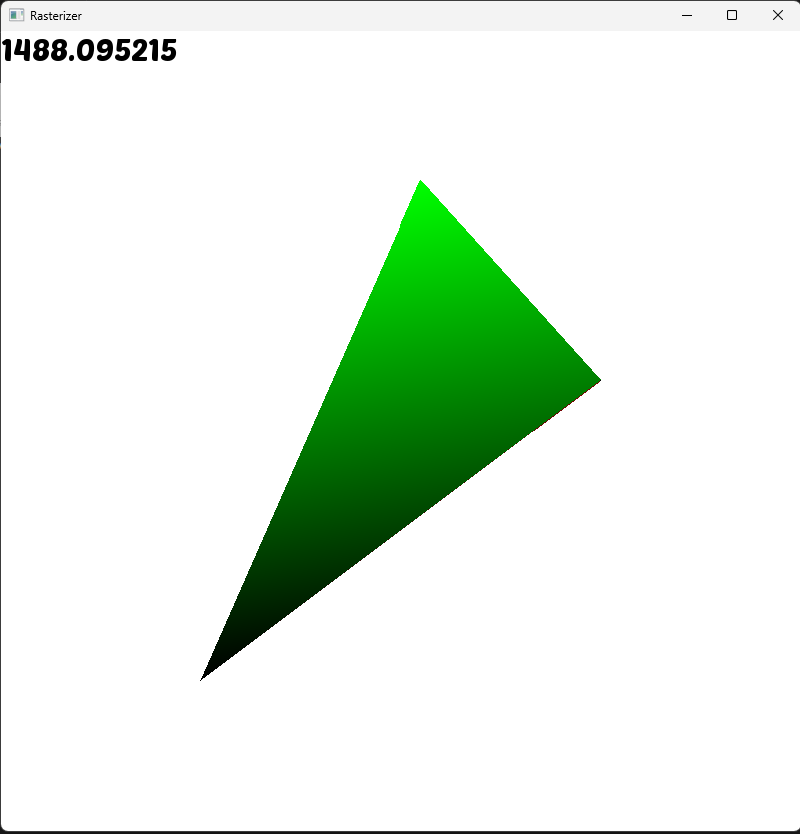
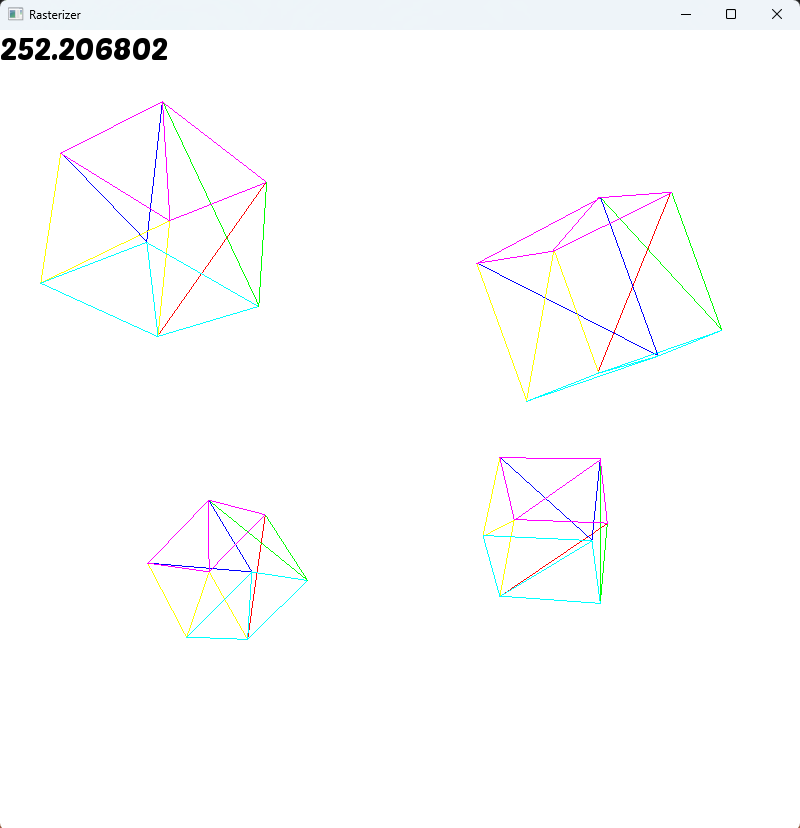
Changed the showcase image for rasterizer

diff --git a/src/rasterizer/main.cpp b/src/rasterizer/main.cpp
@@ -6,8 +6,8 @@
 
 constexpr int WIDTH = 800;
 constexpr int HEIGHT = 800;
-constexpr int VIEWPORT_W = 4;
-constexpr int VIEWPORT_H = 4;
+constexpr int VIEWPORT_W = 1;
+constexpr int VIEWPORT_H = 1;
 constexpr float pi = 3.14159;
 using Matrix = std::array<std::array<float, 4>, 4>;
 using Object = std::vector<std::vector<sf::VertexArray>>;
@@ -325,7 +325,7 @@ int main() {
     sf::Text fps(font);
     sf::Vector3f camera_pos = sf::Vector3f(0,0,0);
     std::array<float,3> camera_orientation {0,0,0};
-    sf::Vector3f viewport_pos = sf::Vector3f(0,0,4);
+    sf::Vector3f viewport_pos = sf::Vector3f(0,0,1);
     fps.setCharacterSize(30);
     fps.setFillColor(sf::Color::Black);
     fps.setPosition(sf::Vector2f(0,0));
@@ -368,38 +368,38 @@ int main() {
     instances.push_back(
         Instance{
             &cube,
-            sf::Vector3f(-7.0f,  4.0f,  4.0f),
+            sf::Vector3f(-3.0f,  2.5f, 10.0f),
             {20.0f, 30.0f, 10.0f},
-            1.3f
+            0.9f
         }
     );
 
     instances.push_back(
         Instance{
             &cube,
-            sf::Vector3f(7.0f,  4.0f, 6.0f),
+            sf::Vector3f(3.0f,  2.0f, 12.0f),
             {0.0f, 45.0f, 20.0f},
-            1.0f
+            1.1f
         }
     );
 
     instances.push_back(
         Instance{
             &cube,
-            sf::Vector3f(-6.0f, -5.0f, 8.0f),
+            sf::Vector3f(-3.0f, -2.5f, 14.0f),
             {30.0f, 10.0f, 45.0f},
-            1.0f
+            0.8f
         }
     );
 
     instances.push_back(
         Instance{
             &cube,
-            sf::Vector3f(6.0f, -4.0f, 15.0f),
+            sf::Vector3f(3.0f, -2.0f, 16.0f),
             {45.0f, 20.0f, 0.0f},
             1.0f
         }
-);
+    );
 
     while (window.isOpen()) {
         fps.setString(std::to_string(1/clock.getElapsedTime().asSeconds()));
